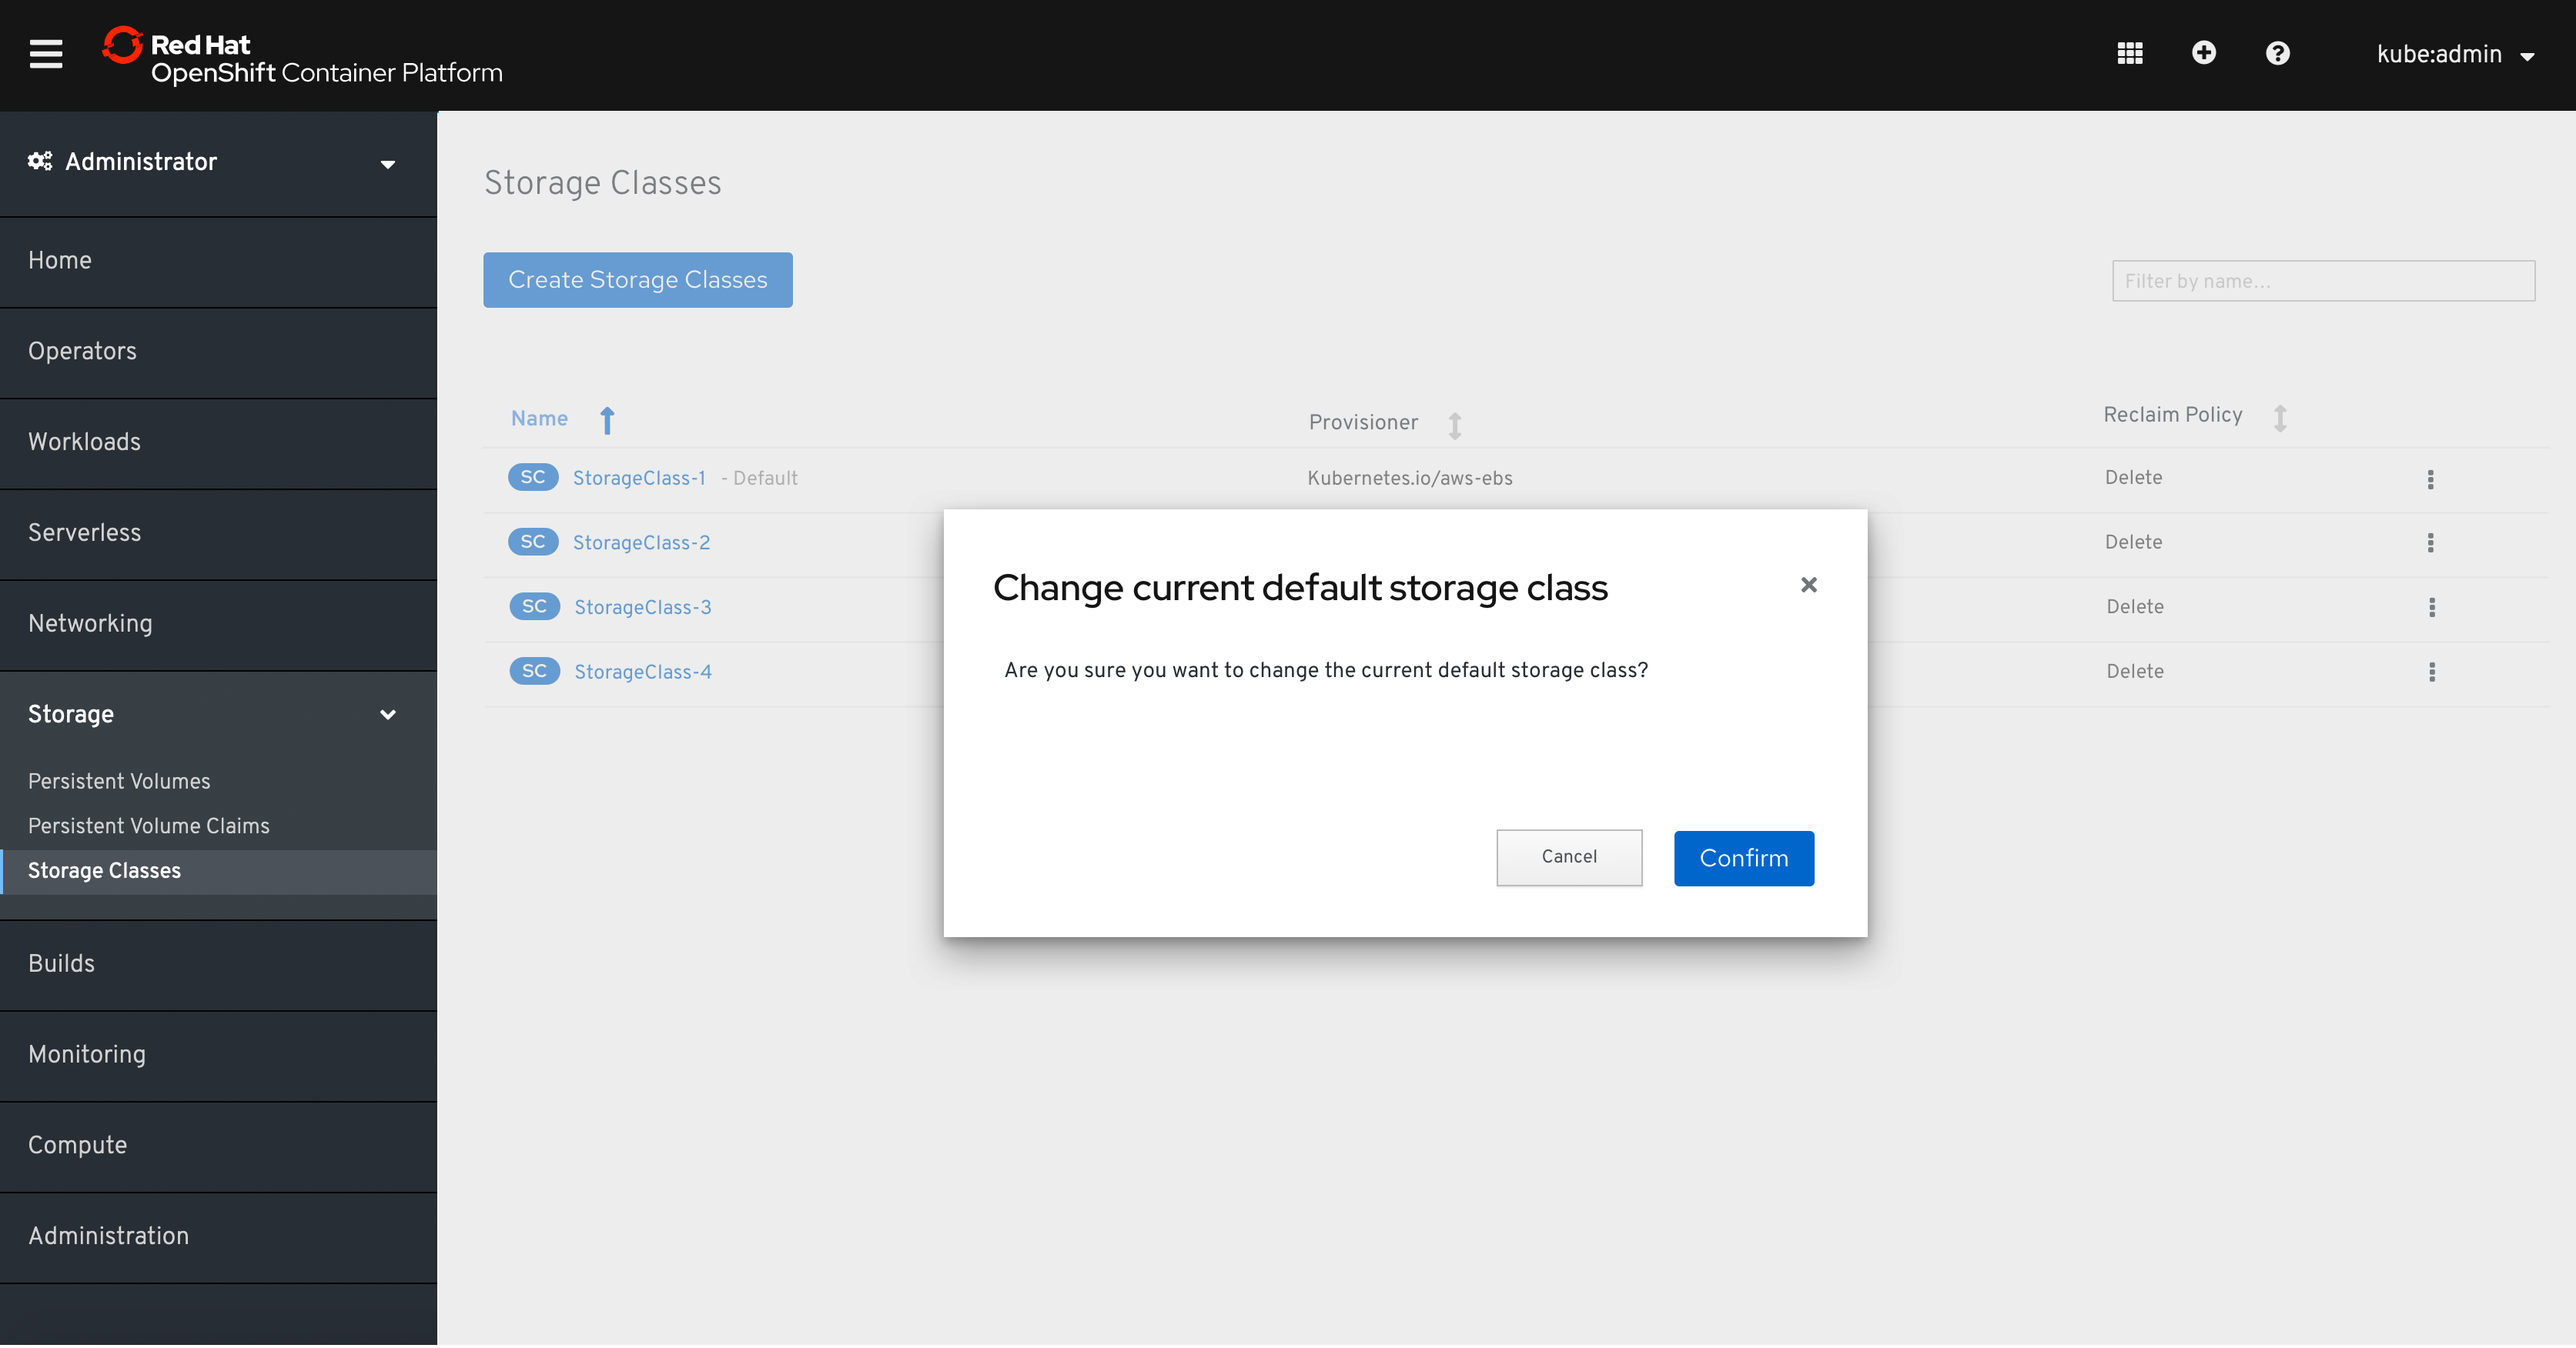
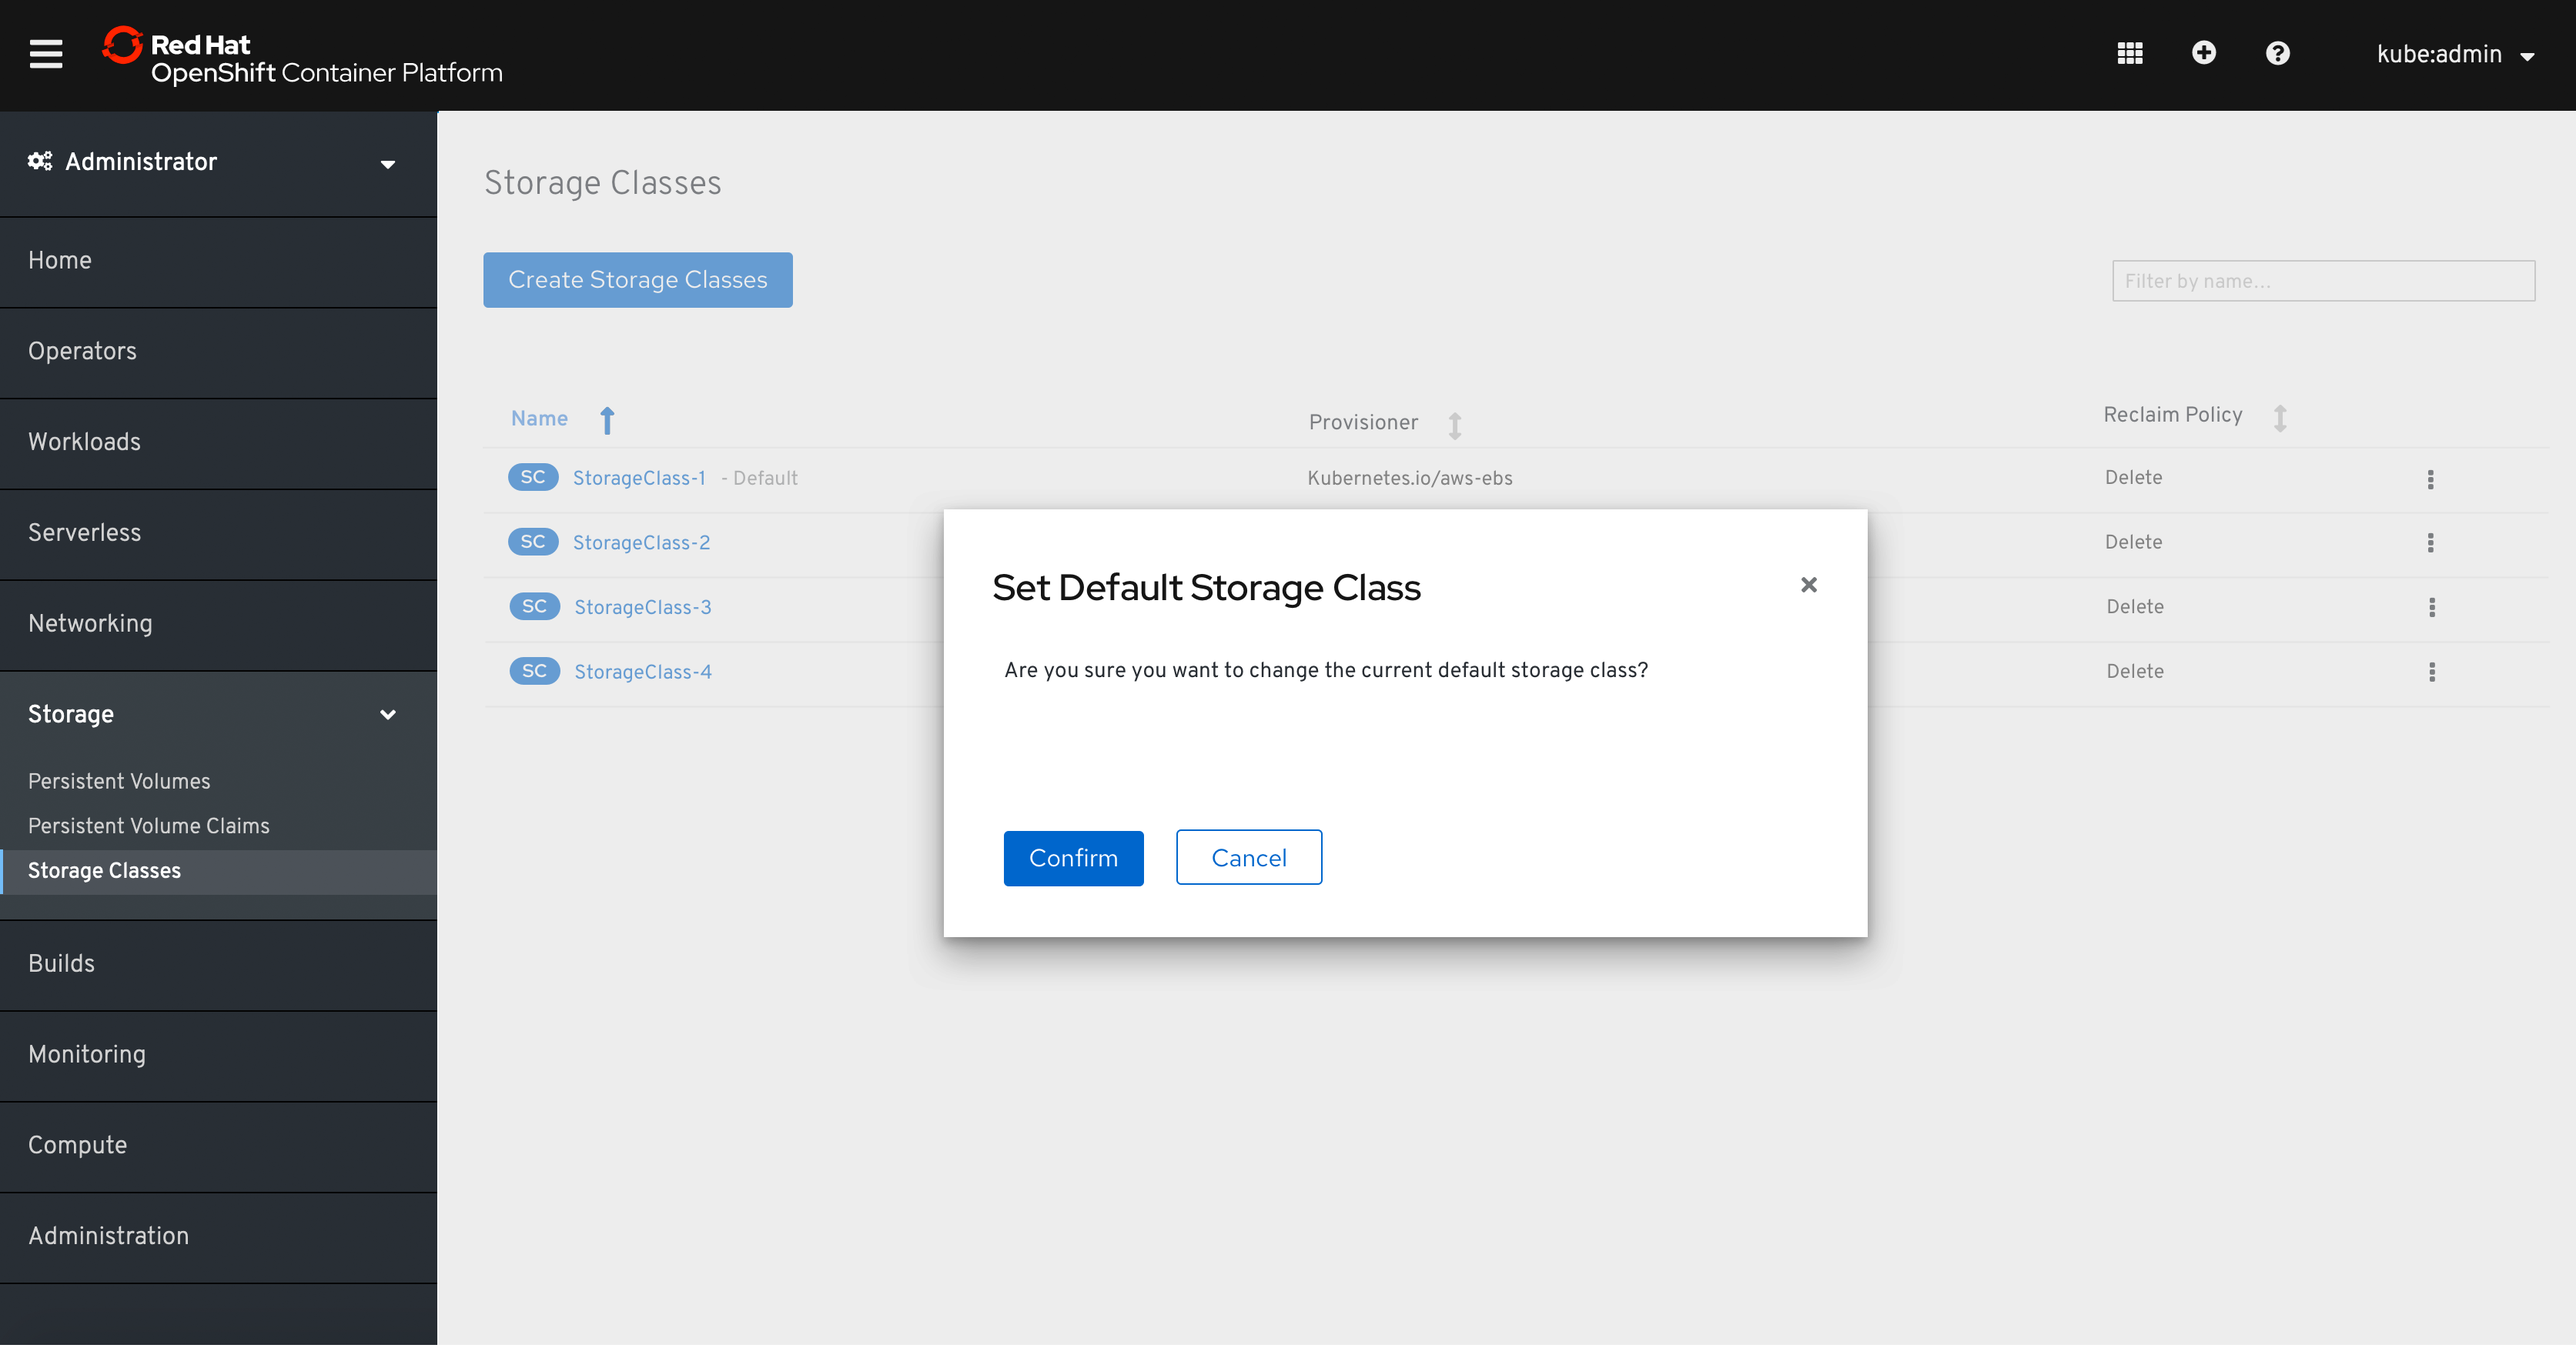
Storage md file and confirmation pop-up image are updated.

Changed region(s): [[0.373, 0.4315, 0.6216, 0.4623], [0.373, 0.6164, 0.4973, 0.6781], [0.6216, 0.6164, 0.7149, 0.6781]]

diff --git a/web-console/4.0-designs/storage/storage.md b/web-console/4.0-designs/storage/storage.md
@@ -37,27 +37,17 @@
 #### OPTION-1: Kebab menu option:
 
 1. Login to OpenShift > Admin > Storage (menu) > Storage classes (sub-menu)
-2. User can see list of ‘Storage classes” [list view]
-3. There will be a label that indicates 'default storage class'
-4. User chooses a storage class row that would be changed as a ‘default storage class’
-5. Click on the kebab menu > select “Edit Default Storage Class” as shown in the screen below:
+2. User can see list of ‘Storage classes' [list view] & there will be a label that indicates `default` storage class
+3. Click on the kebab menu > select `Set as Default Storage Class`
 
-![Set a Default Storage Class using kebab menu](img/stroage-opt1-start.png)
+![Set a Default Storage Class using kebab menu](img/stroage-opt1-start-1.png)
 
-6. Pop-up opens with a list of ‘SC’ and message shown below:
-*Message:
-Current default storage class will be changed to false when you
-choose a different storage class from the list below.**
+4. Pop-up opens with confirmation message.
+5. User clicks on 'Confirm' button to make the change
 
-7. User can choose any SC as a default storage class
+![Popup menu with confirmation](img/stroage-opt1-popup-confirm-1.png)
 
-![Popup menu to select a different Default Storage Class](img/stroage-opt1-popup-select.png)
-
-8. User clicks on ‘Save’ button to confirm the change
-
-![Popup menu with confirmation](img/stroage-opt1-popup-confirm.png)
-
-9. Successfully modified ‘Default Storage class” [list view]
+6. Successfully modified ‘Default Storage class” [list view]
 ![Modified default storage class](img/stroage-opt1-done.png)
 
 #### OPTION-2: Change the ‘default’ option from storage class detail page:
@@ -68,7 +58,7 @@ choose a different storage class from the list below.**
 ![Set a Default Storage Class using edit ](img/stroage-opt2-start.png)
 
 3. SC details are shown as below
-4. Click on “pencil icon” near the ‘default class status’
+4. Click on 'pencil icon' near the ‘default class status’
 
 ![Set a Default Storage Class using pencil icon](img/stroage-opt2-details.png)
 
